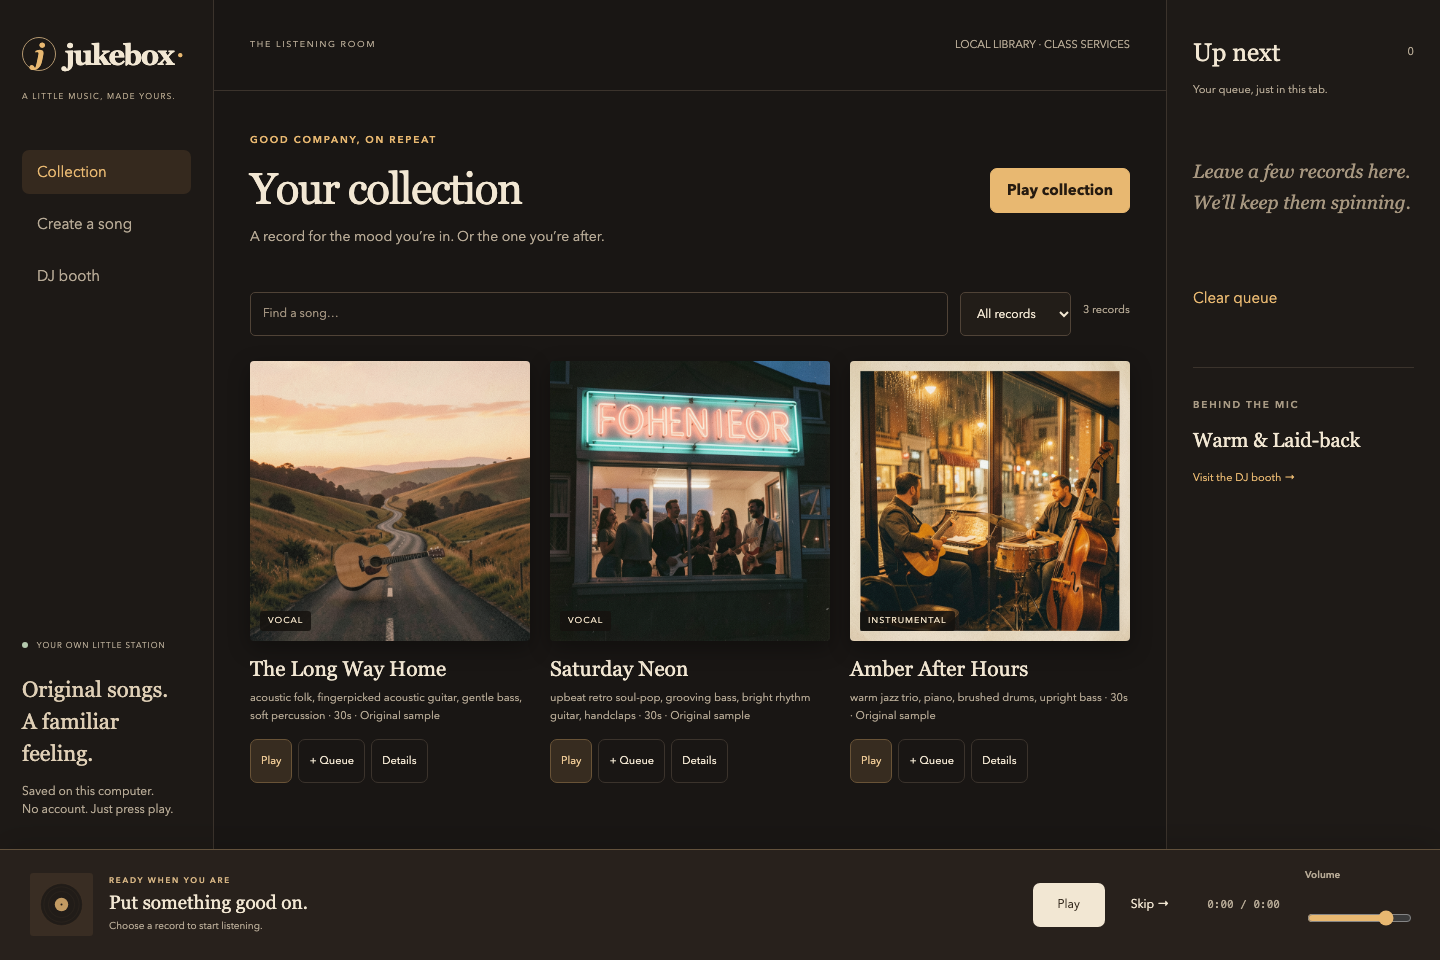
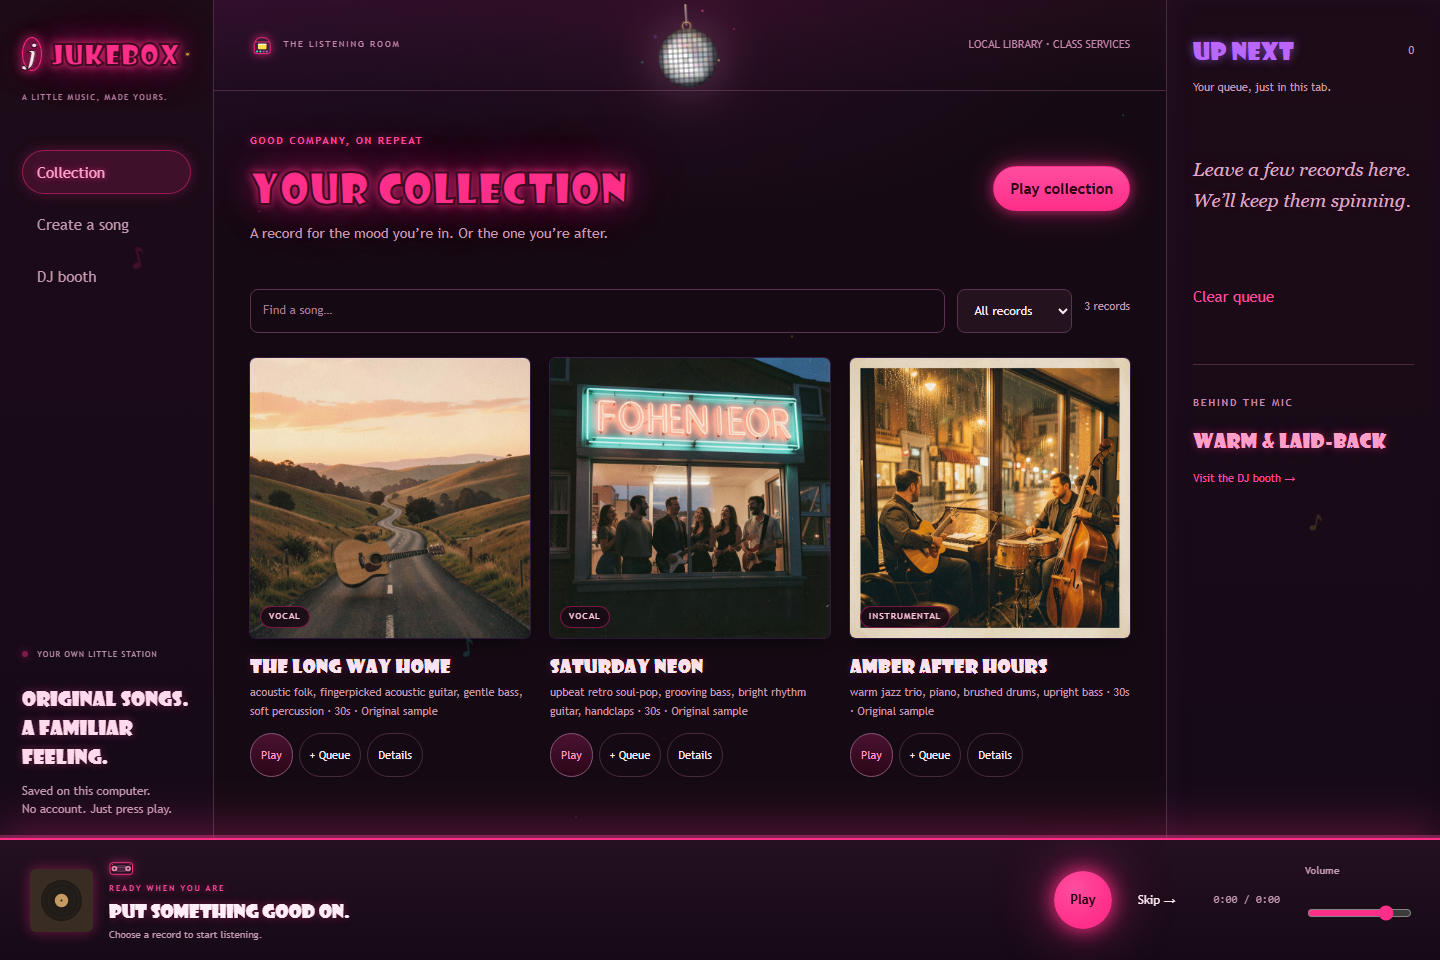
docs: refresh README screenshots to the disco theme; note first live Windows run

diff --git a/README.md b/README.md
@@ -17,6 +17,7 @@ Not running yet? Start it first with the steps below ([Start here](#start-here))
 - **10/13/26 — Disco neon theme**: 70s disco look — glowing neon bubble-letter signs, hot pink / cyan / yellow neon, midnight-purple walls, and a mirror ball in the header (a hand-built SVG with 144 individually lit mirror tiles, a sweeping glint, and colored light dots orbiting it). Pure CSS + inline SVG — still zero remote fonts or downloads.
 - **10/13/26 — Cute deco graphics**: a glowing jukebox icon in the top bar, a cassette tape in the player, and three music notes gently bobbing in the background. All hand-drawn inline SVG + CSS — no downloads, no JavaScript changes.
 - **10/13/26 — Quick open link**: click **[Open the Jukebox](http://127.0.0.1:8765)** at the top of this README to open the app in your browser whenever it's running.
+- **10/13/26 — Fresh screenshots, first live Windows run**: the README screenshots now show the disco theme. The app was also exercised end-to-end on Windows with the live class services — Qwen lyrics, an ACE-Step song and a FLUX cover were all generated successfully from a local Windows launch.
 
 ## Start here
 
@@ -50,7 +51,7 @@ $env:JUKEBOX_ENDPOINTS_FILE = "$HOME\Downloads\class-endpoints.txt"
 .\.venv\Scripts\python.exe -m jukebox
 ```
 
-Using the venv interpreter directly avoids PowerShell activation-policy issues. Replace `3.12` with your installed newer version if necessary. **Windows instructions are provided but not yet independently tested on Windows**; see the verification checklist below.
+Using the venv interpreter directly avoids PowerShell activation-policy issues. Replace `3.12` with your installed newer version if necessary. **Windows instructions were exercised with a local Windows run on Oct 13, 2026 — live Qwen lyrics, an ACE-Step song and a FLUX cover all generated successfully**. An independent teammate install from the submission ZIP remains outstanding; see the checklist below.
 
 Open **http://127.0.0.1:8765**. Keep the terminal running. Stop with Ctrl+C. For later launches, activate the venv (or use its interpreter), set the external file path, and run `python -m jukebox` again.
 
